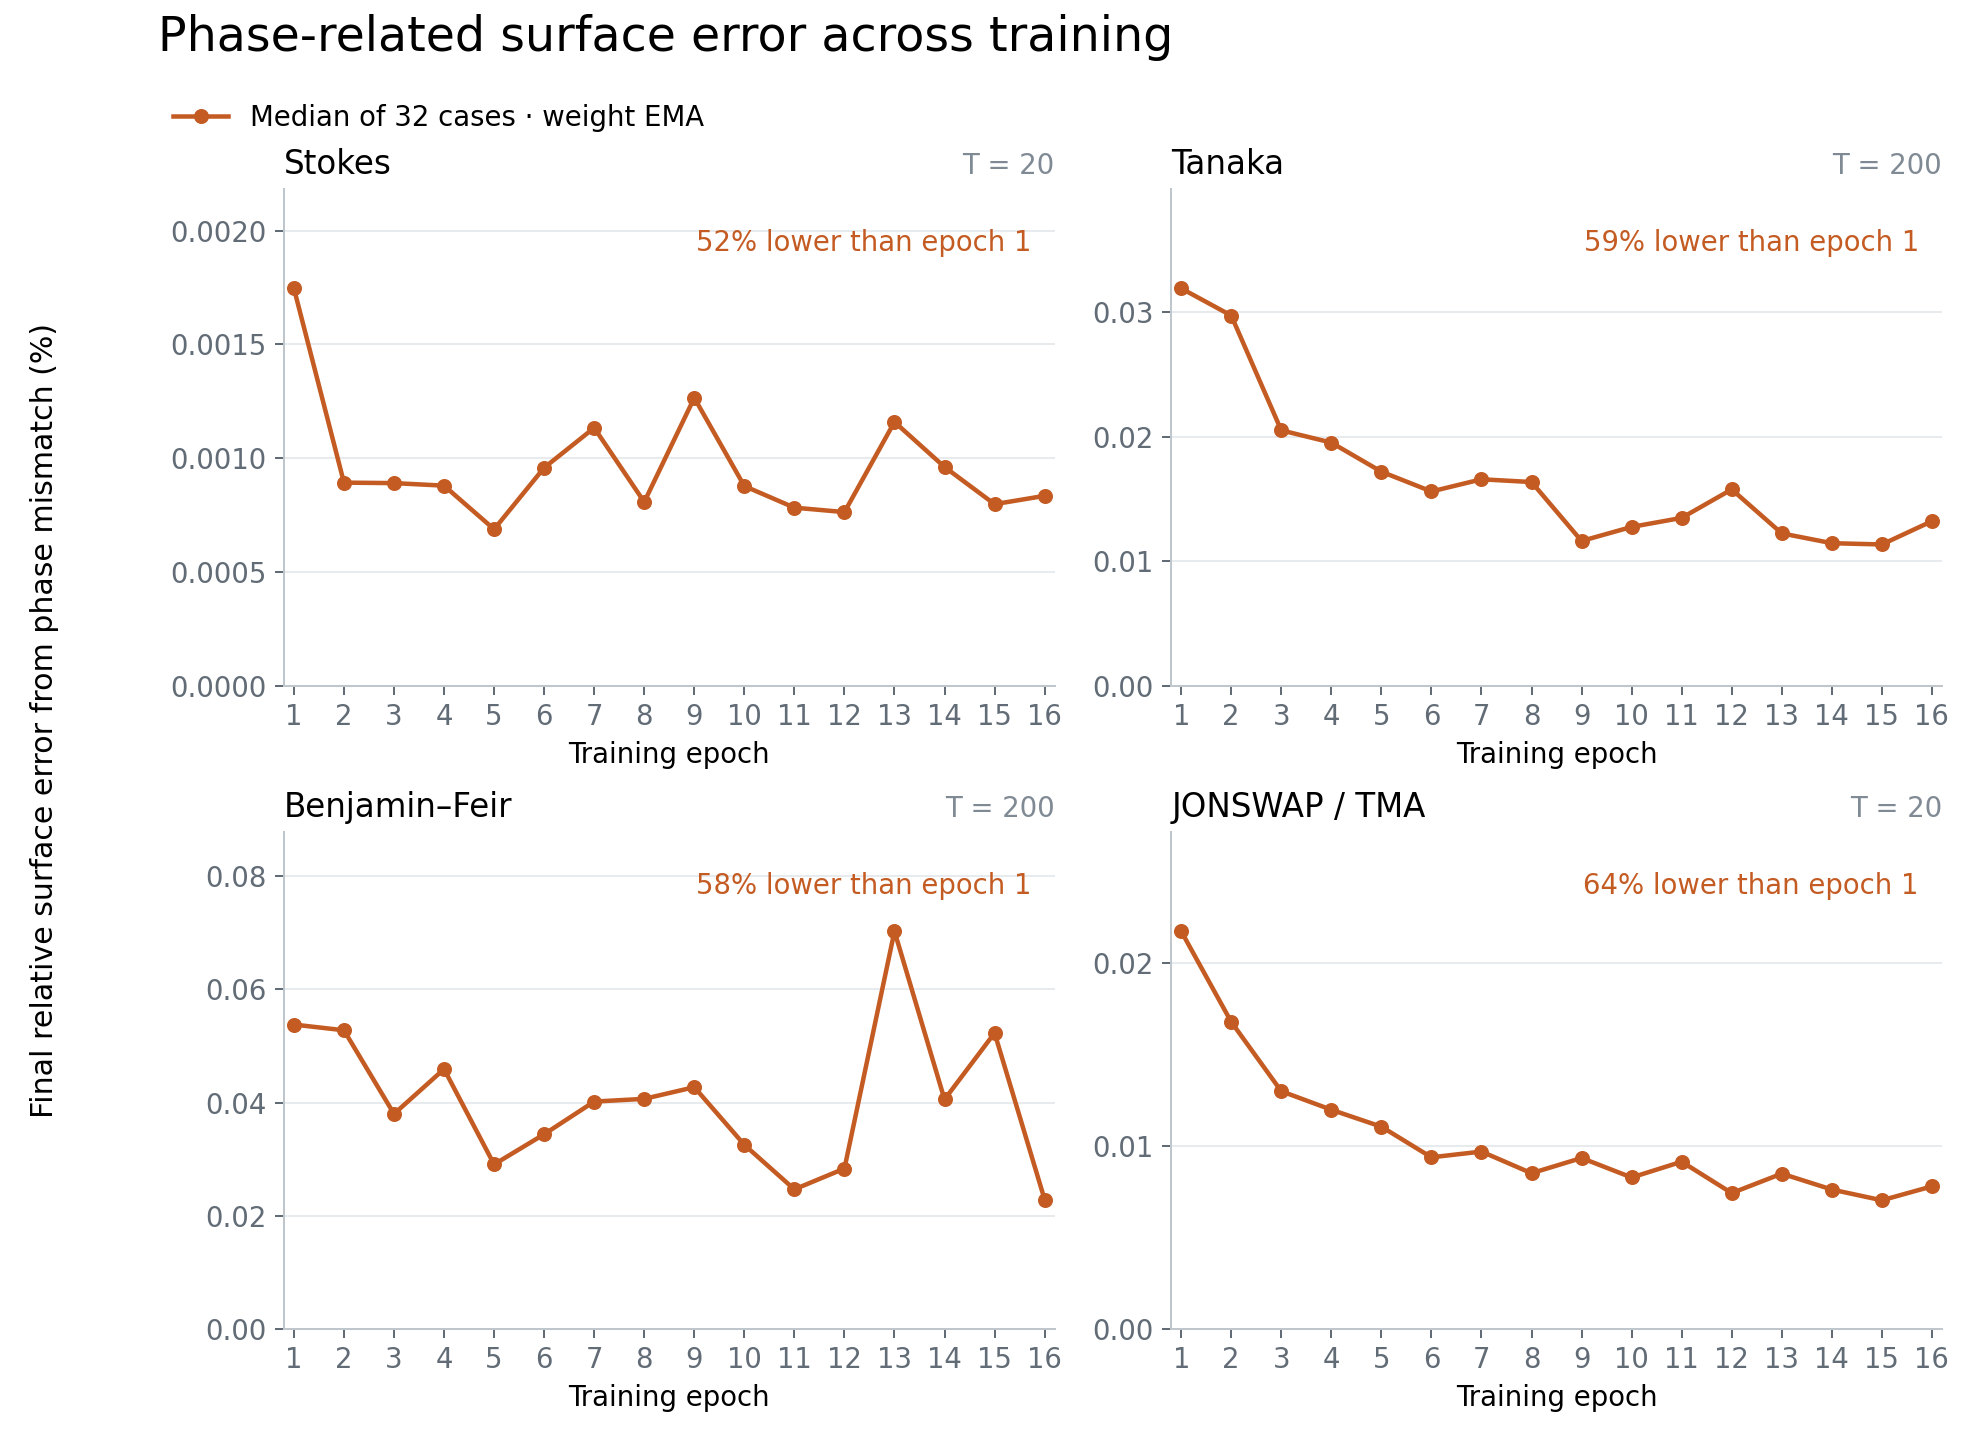
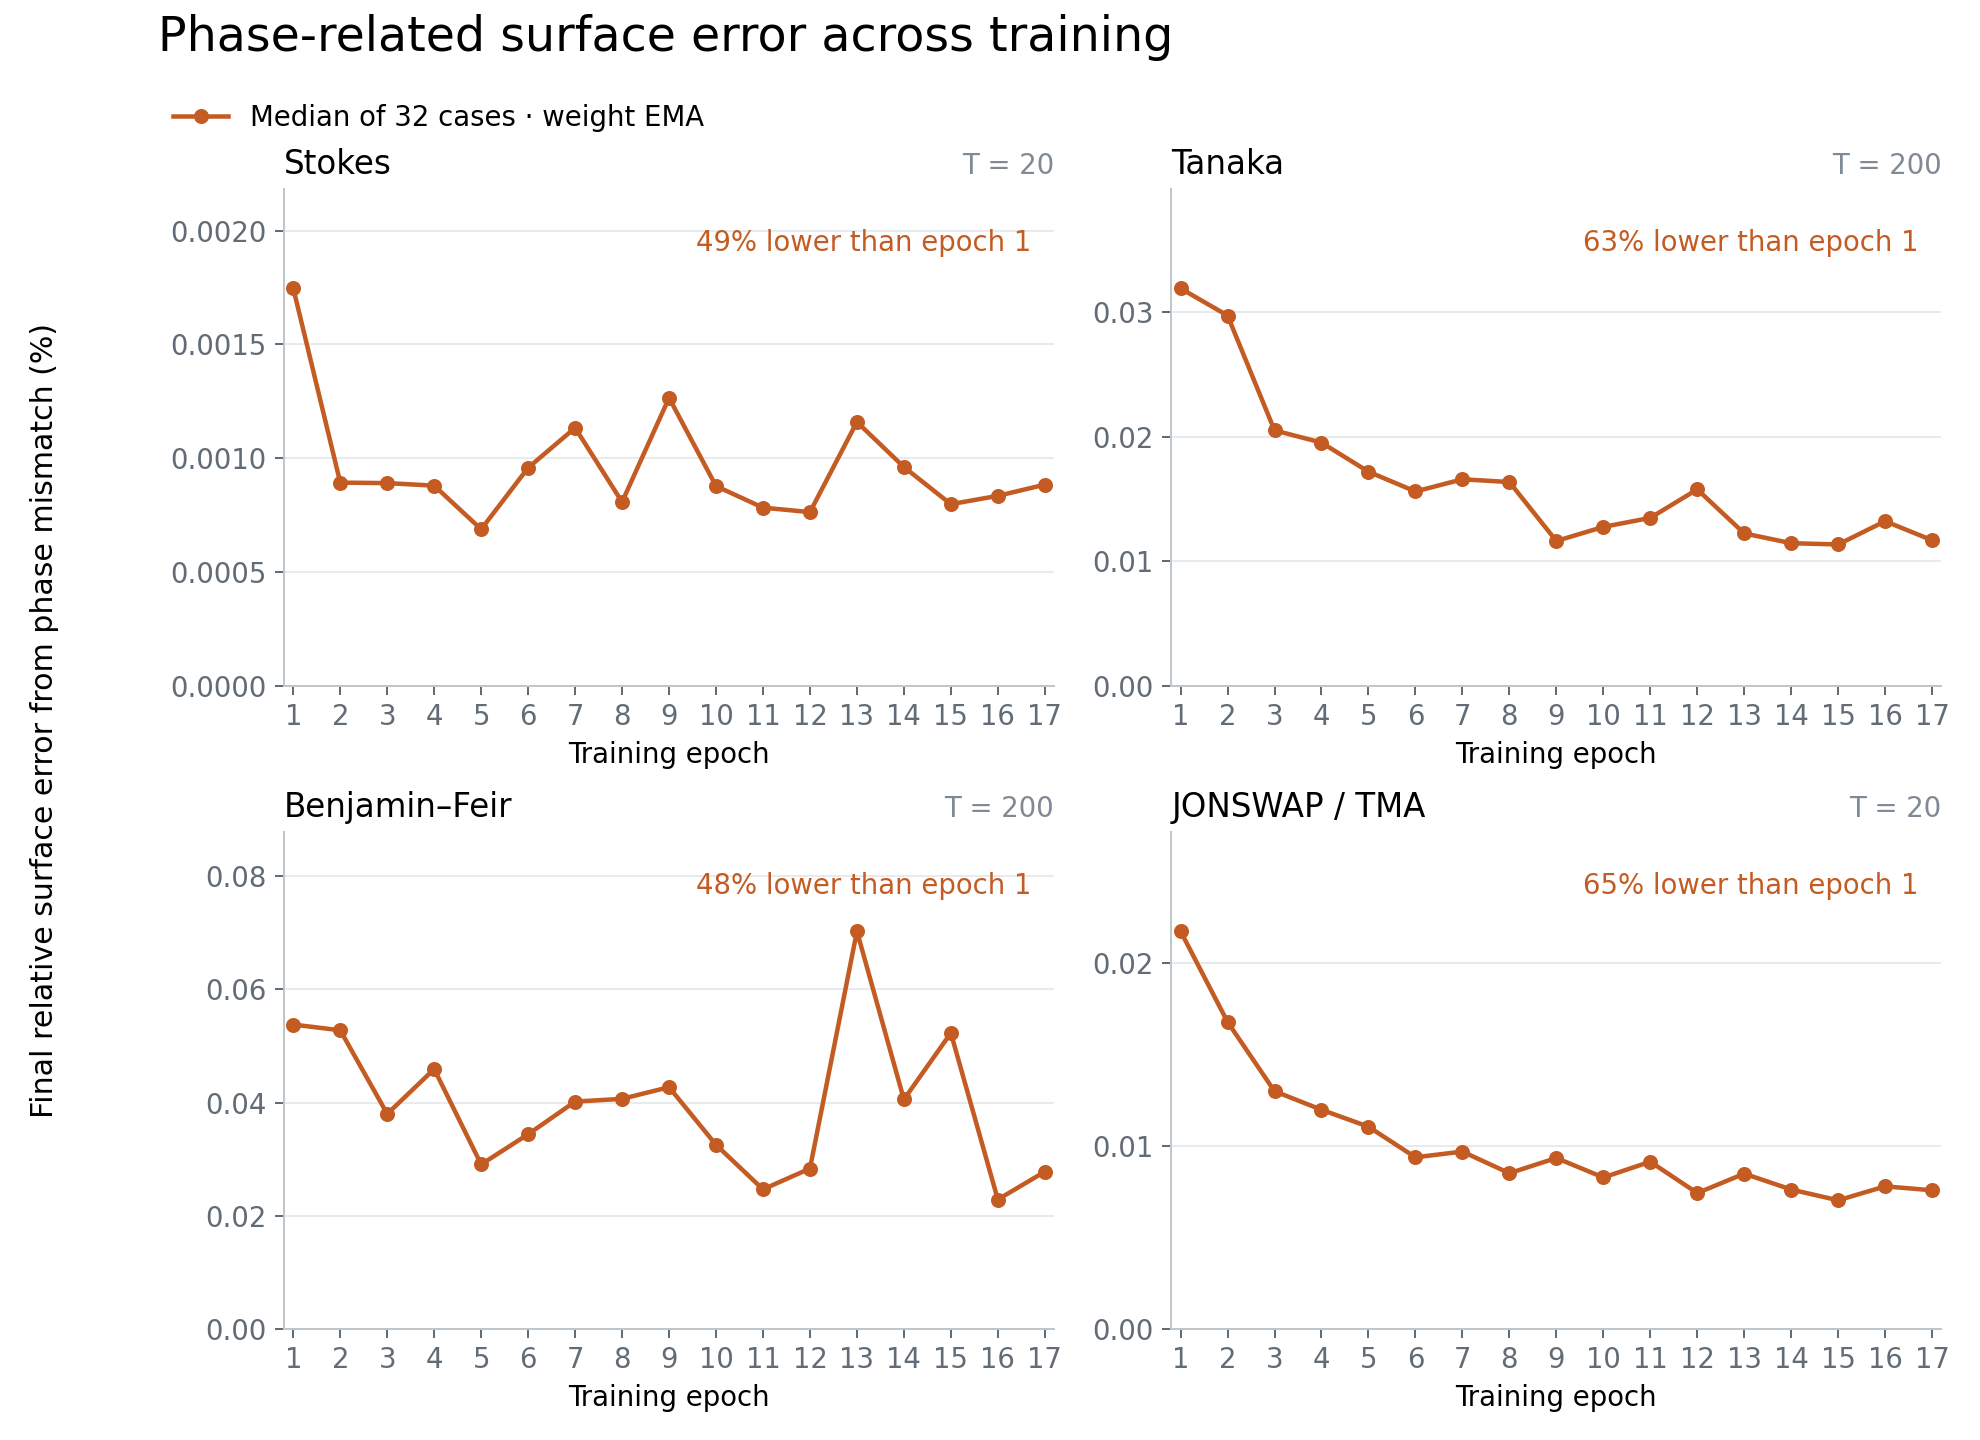
Refresh Figure 12c with best epoch 17 EMA rollouts

diff --git a/paper-plots/plot_phase_diagnostics.py b/paper-plots/plot_phase_diagnostics.py
@@ -75,7 +75,7 @@ def main() -> None:
         "pdf.fonttype": 42, "ps.fonttype": 42,
     })
     if args.phase_training:
-        epochs = np.arange(1, 17)
+        epochs = np.arange(1, 18)
         evaluations = [
             ROOT / "outputs/c27_phase1_lr8_momentum_half_ema995_grad05_adam05_b2099_batch16_hd04_band128_nested1_gamma32_full_20261012/eval_fast_weight_ema_nestedfused_contextbatch",
             *(ROOT / f"outputs/c27_nested_b16_ema_low_lr_continue_20261014/eval_epoch{epoch}_weight_ema" for epoch in (2, 3)),

diff --git a/experiments/experiments-2026-10-15.md b/experiments/experiments-2026-10-15.md
@@ -1,6 +1,6 @@
 # Experiments — 2026-10-15
 
-Epoch 16 of the approved low-LR continuation completed and is the new aggregate rollout best: paired surface error is 8.1% below epoch10 and 53.5% below epoch1. Epoch17 resumed automatically. Best validation remains15, with patience1/5. Figure22 includes epochs1–16; Figure12c uses epoch16 EMA with unchanged current-path Ada timings. Figure12 retains epoch7 Ada accuracy; Blackwell and A100 retain their previous measurements.
+Epoch 17 of the approved low-LR continuation completed and is the new aggregate rollout best: paired surface error is 7.0% below epoch16 and 56.8% below epoch1. Epoch18 resumed automatically. Best validation is17, with patience0/5. Figure22 includes epochs1–17; Figure12c uses epoch17 EMA with unchanged current-path Ada timings. Figure12 retains epoch7 Ada accuracy; Blackwell and A100 retain their previous measurements.
 
 | Date | Time | File / Variant | Motivation | What Tried / Evidence | Correctness | Timing | Decision |
 | --- | --- | --- | --- | --- | --- | --- | --- |
@@ -40,3 +40,4 @@ Epoch 16 of the approved low-LR continuation completed and is the new aggregate 
 | 2026-10-15 | 20:58 | Existing validation components versus rollout regressions, EMA epochs 3–15 | Determine whether an already-logged component can warn about longer-training regressions without adding another loss or relying only on the combined validation score. | CPU-only comparison of 13 comparable primary-EMA checkpoints. Pooled terminal eta rises at epochs4/7/11/13/15. Spearman level/change correlations: data .670/.601, MB .582/.399, TG .346/.545, momentum .615/−.091, HD .615/.133, combined selection .670/.608. TG rises at4/5 regressions but misses11 and falsely worsens at6/10; data/combined flag1/5, MB/momentum/HD flag0/5. Momentum and HD decrease at every transition. TG selects14; all other components select15; actual rollout error selects10. | Main independently reproduces all correlations, transition signs and selected epochs from saved logs and terminal eta arrays. Same128 cases and only EMA-validation epochs3–15; correlations describe this training lineage and are not independent validation or causal evidence. TG remains Tanaka-scoped. No phase-series claim, model/solver execution or GPU work. | CPU checks20:56–20:58; live trainer2370592 and supervisor2229602 verified while epoch16 advances. | Keep epoch10 and the approved per-epoch EMA rollout evaluations. None of the existing validation components is a sufficient replacement for rollout selection; do not reweight losses or alter stopping based on this audit. |
 | 2026-10-15 | 21:17 | Epoch16 primary-EMA evaluation; Figures12c/22 refresh | Test whether the approved continuation can improve on the retained epoch10 rollout checkpoint after several nonmonotone epochs. | All128 EMA rollouts complete. Pooled paired eta/xi16/10=.919082/.921994, with85/80 wins;16/1=.464535/.463780,107/105 wins;eta/M2=.217144,97wins;eta/M3=.915038,68wins. Eta medians/p95 percent S/T/BF/J: .000890277/.012524615, .018528854/.252179652, .025265737/.074194905, .010149664/.078400570. Family eta16/10=1.070032/.981293/.827139/.821568: Stokes worsens, BF/JON improve, Tanaka paired GM improves slightly despite worse median and p95. Whole-trajectory eta16/10=.937186; terminal phase=.931494, amplitude=.837151. Phase medians percent .000834831/.013217810/.022850755/.007779834, reductions versus1 of52.2/58.6/57.5/64.2%. Validation selection1.409892952e-5 worsens.09264% versus15; data+.6484%,MB−1.9415%,TG+.1187%,momentum−5.6696%,HD−3.4469%. | Same128 ordered IDs/times/depths; all truth valid, fields finite, failure flags false, minimum fluid depth.011970303551. Independent terminal norms match saved errors exactly; root reproduces paired eta, whole-trajectory and direct sine-half-angle phase decomposition with phase plus amplitude energy equal to total. Latest/export16 counters11796720; all52 EMA arrays/40384 scalars match full-state shadows. Best validation remains15; patience1/5. Retained full16 state and metadata in rollout_best_epoch16_ckpt, without removing10. Figure12c uses16 on unchanged measured B1 inference-path timings; fixed-case eta percent .000181980/.258528952/.044425016/.021586382. Figures12c/22 visually inspected; compilation/diff checks pass. | Training02:03, completed21:07; validation/export21:10; EMA rollouts21:10–21:14; CPU audits/render21:14–21:17. Epoch17 resumed21:14 with restoredstep11796720 and unchanged settings. | MERGE plots/log; select16 as the new aggregate rollout best. Pooled median/p95 improve, but Tanaka eta p95 rises.215584 to.252180% versus10: not uniform dominance. Continue approved training/EMA evaluations. No new arm, raw evaluation or timing benchmark; sustained60–120-epoch transfer remains unproven. |
 | 2026-10-15 | 21:32 | Epoch16 paired-case robustness versus1/10/M2/M3 | Assess whether the new best's apparent gain is broadly supported by the saved cases before treating a modest checkpoint difference as reliable long-run improvement. | Stratified paired bootstrap,10000 draws,seed0,32 resampled cases per family. Pooled eta16/10=.919082 with95% interval[.808375,1.042696];xi=.921994[.806308,1.051297]. Eta16/1=.464535[.396046,.549879],16/M2=.217144[.171506,.273267],16/M3=.915038[.708800,1.183217]. Exact phase16/1=.500553[.415151,.607740],16/10=.931494[.810091,1.069339]. Family eta16/10 intervals S/T/BF/J:[.697372,1.610010]/[.795583,1.241665]/[.697494,.992804]/[.783945,.863883]. Leaving out any one family still favors16 over10 at the point estimate, eta ratios.873656–.954094. M3 comparison depends on BF: omit BF and eta/xi ratios become1.811285/1.858176. | Main independently reproduces terminal bootstrap and leave-one-family-out comparisons, and computes direct sine-half-angle phase intervals from saved fields. Identical paired resamples across baselines, fields and family weights. Conditional selected-case intervals do not include training-seed or checkpoint-selection uncertainty, nor family-comparison multiplicity correction. No model, solver or GPU execution. | CPU-only21:31–21:32 while trainer2438850/supervisor2229602 remain live on epoch17. | Retain16 as measured best and continue the unchanged approved run. Strong sampled-case evidence of improvement over1/M2; incremental16-over10 and general M3 superiority are not established by these intervals. Do not alter losses, stopping or figures from this diagnostic. |
+| 2026-10-15 | 23:29 | Epoch17 primary-EMA evaluation; Figures12c/22 refresh | Test whether unchanged low-LR continuation improves the best rollout checkpoint, and use the best evaluated epoch in Figure12c as requested. | All128 EMA rollouts complete. Pooled paired eta/xi17/16=.930298/.904541 (72/71 wins),17/10=.855020/.833981 (79/86),17/1=.432156/.419508 (110/110). Eta/M2=.202009 (100wins),eta/M3=.851258 (70wins). Eta medians/p95 percent S/T/BF/J: .000886984/.011364127, .012990140/.173990271, .030430902/.082039547, .009779406/.074694233. Family eta17/16=.926621/.787236/1.041573/.985805: Tanaka improves most, BF regresses. Pooled eta median/p95 slightly worsen to.010614324/.082635624%, while GM improves to.007427105%. Whole-trajectory eta17/16=.917348,17/1=.429298. Exact terminal phase17/16=.890872,17/1=.445929; amplitude17/16=1.070400. Validation selection1.372207720e-5 improves2.673%,data3.272%; best17,patience0/5. | Same128 ordered IDs/times/depths; all reference/predicted fields finite and valid, positive water depth, no failures. Independent terminal audit reproduces saved norms exactly; root independently reproduces paired eta/trajectory and direct sine-half-angle Fourier decomposition. Retained full17 state and metadata in rollout_best_epoch17_ckpt; counters12534015 and all52 EMA arrays/40384 scalars match latest. GradientEMA.5/weightEMA.995 and LR8e-6 unchanged. Figure12c uses17 on the unchanged measured Ada B1 times; fixed-case eta percent .000047228/.097463526/.038965966/.022079897. Figure22 includes1–17; phase medians .000883854/.011687752/.027774256/.007565821%. PNGs visually inspected; Python compilation/diff checks pass. | Training02:03, completed23:18; validation/export23:21; EMA rollouts complete23:24 and epoch18 resumed automatically. CPU audits/render23:26–23:29. No new GPU timing. | MERGE plots/log; retain17 as best by pooled geometric-mean terminal eta across128cases, not by every metric or family. Continue the approved run and EMA evaluations unchanged; sustained60–120-epoch transfer remains unproven. |

diff --git a/paper-plots/README.md b/paper-plots/README.md
@@ -433,9 +433,9 @@ UV_CACHE_DIR=/tmp/codex-uv-cache uv run --no-sync paper-plots/plot_neural_advant
     outputs/torch_ema_20260926/ada_timing/timings.json
 ```
 
-Figure 12c compares the Ada classical solver, epoch-16 EMA candidate, and older
-rollout-supervised network. Epoch 16 is the best overall evaluated checkpoint
-through epoch 16 by pooled paired terminal surface error across the 128 cases;
+Figure 12c compares the Ada classical solver, epoch-17 EMA candidate, and older
+rollout-supervised network. Epoch 17 is the best overall evaluated checkpoint
+through epoch 17 by pooled geometric-mean terminal surface error across the 128 cases;
 each panel still displays the fixed timed case, not the family median. Runtime
 measurements are unchanged for the same inference path. It omits the RMS/context
 and spectral-DNO models and historical timing annotations:
@@ -447,8 +447,8 @@ UV_CACHE_DIR=/tmp/dno-uv-cache uv run --no-sync paper-plots/plot_neural_advantag
     outputs/c27_phase1_lr8_momentum_half_ema995_grad05_adam05_b2099_batch16_hd04_band128_nested1_gamma32_full_20261012/eval_fast_weight_ema_nestedfused_contextbatch/single_rollout_timings.json \
     outputs/c27_nested_b16_ema_low_lr_ep60_20261014/fig12_epoch7_timings.json \
   --candidate-method fourier_fused_features_product_overlap_nestedfused_contextbatch_spectral_all_boundaries_stages_carry_local \
-  --candidate-eval outputs/c27_nested_b16_ema_low_lr_ep60_20261014/eval_epoch16_weight_ema \
-  --candidate-label "New candidate optimized network · epoch 16 EMA" \
+  --candidate-eval outputs/c27_nested_b16_ema_low_lr_ep60_20261014/eval_epoch17_weight_ema \
+  --candidate-label "New candidate optimized network · epoch 17 EMA" \
   --trained-timings outputs/rollout_teacher_timing_20261002/ada/timings.json \
   --hide-timing-changes --output-name 12c-ada-runtime-vs-error
 ```
@@ -760,16 +760,16 @@ OPENBLAS_NUM_THREADS=1 OMP_NUM_THREADS=1 UV_CACHE_DIR=/tmp/dno-uv-cache \
 [PNG](figures/22-phase-error-vs-training.png) / [PDF](figures/22-phase-error-vs-training.pdf)
 
 Terminal Fourier-phase error for primary weight-EMA checkpoints at every epoch
-from 1 through 16, using the same 32 cases per family. The y axis uses Figure 20's
+from 1 through 17, using the same 32 cases per family. The y axis uses Figure 20's
 relative-error magnitude, not the percentage of total squared error. Each point
 is the median of `100*sqrt(phase_energy/reference_energy)` at the final rollout
-time. At epoch 16, the reductions versus epoch 1 are 52.2%, 58.6%, 57.5% and
-64.2% for Stokes, Tanaka, Benjamin–Feir and JONSWAP/TMA. All sixteen measurements
-are shown; the curves are not monotonic. From epoch 15 to 16, the Stokes, Tanaka
-and JONSWAP/TMA medians increase by 4.6%, 16.4% and 10.9%, while Benjamin–Feir
-decreases by 56.3%. Epoch-16 median errors are 0.000834831%, 0.0132178%,
-0.0228508% and 0.00777983% in the family order above. These are family medians;
-epoch 16 is best by pooled paired terminal surface error across all cases.
+time. At epoch 17, the reductions versus epoch 1 are 49.4%, 63.4%, 48.4% and
+65.2% for Stokes, Tanaka, Benjamin–Feir and JONSWAP/TMA. All seventeen measurements
+are shown; the curves are not monotonic. From epoch 16 to 17, the Stokes and
+Benjamin–Feir medians increase by 5.9% and 21.5%, while Tanaka and JONSWAP/TMA
+decrease by 11.6% and 2.8%. Epoch-17 median errors are 0.000883854%, 0.0116878%,
+0.0277743% and 0.00756582% in the family order above. These are family medians;
+epoch 17 is best by pooled geometric-mean terminal surface error across all cases.
 
 ```sh
 OPENBLAS_NUM_THREADS=1 OMP_NUM_THREADS=1 UV_CACHE_DIR=/tmp/dno-uv-cache \

diff --git a/EXPERIMENTS.md b/EXPERIMENTS.md
@@ -33,11 +33,11 @@ could not be recovered at all are in
 
 ## Dated logs
 
-97 files, 1614 rows.
+97 files, 1615 rows.
 
 | Date | Rows | File | Size |
 | --- | --- | --- | --- |
-| 2026-10-15 | 36 | [`experiments/experiments-2026-10-15.md`](experiments/experiments-2026-10-15.md) | 62 KB |
+| 2026-10-15 | 37 | [`experiments/experiments-2026-10-15.md`](experiments/experiments-2026-10-15.md) | 64 KB |
 | 2026-10-14 | 16 | [`experiments/experiments-2026-10-14.md`](experiments/experiments-2026-10-14.md) | 38 KB |
 | 2026-10-13 | 8 | [`experiments/experiments-2026-10-13.md`](experiments/experiments-2026-10-13.md) | 14 KB |
 | 2026-10-12 | 57 | [`experiments/experiments-2026-10-12.md`](experiments/experiments-2026-10-12.md) | 125 KB |
